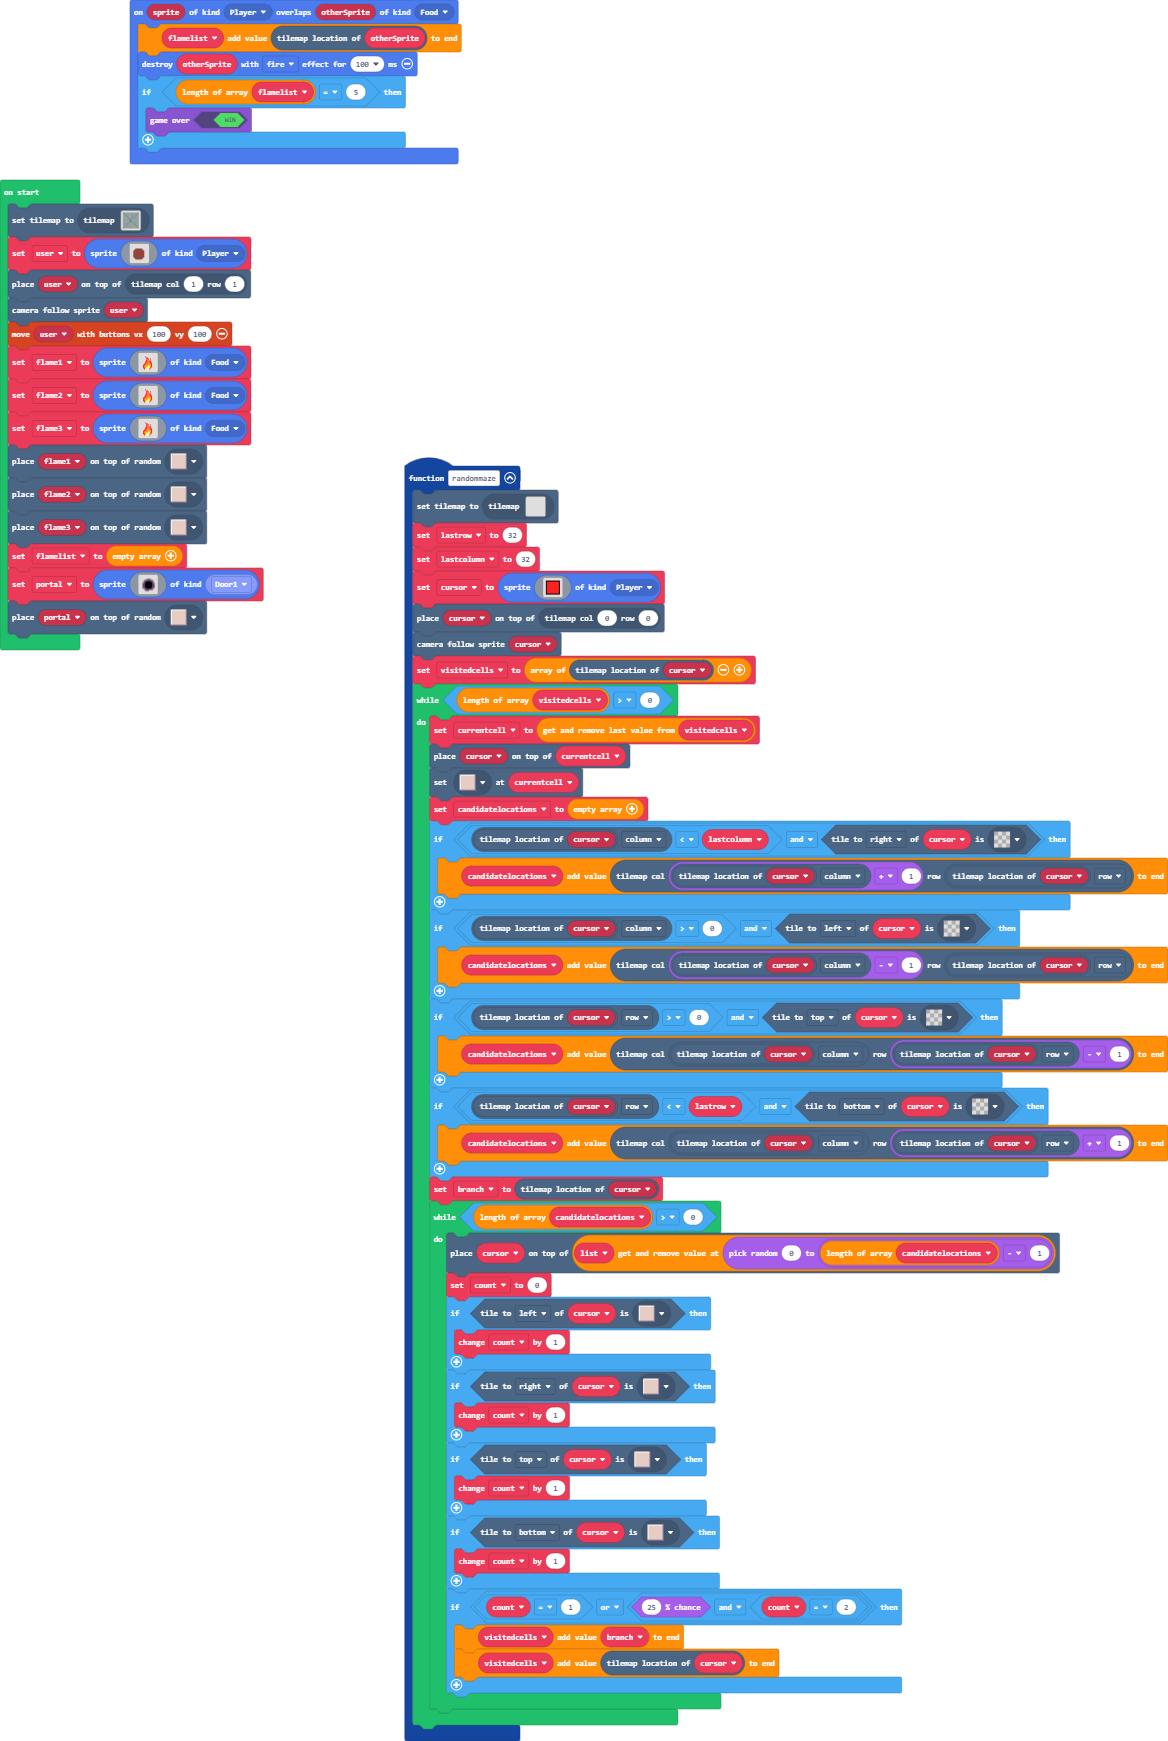
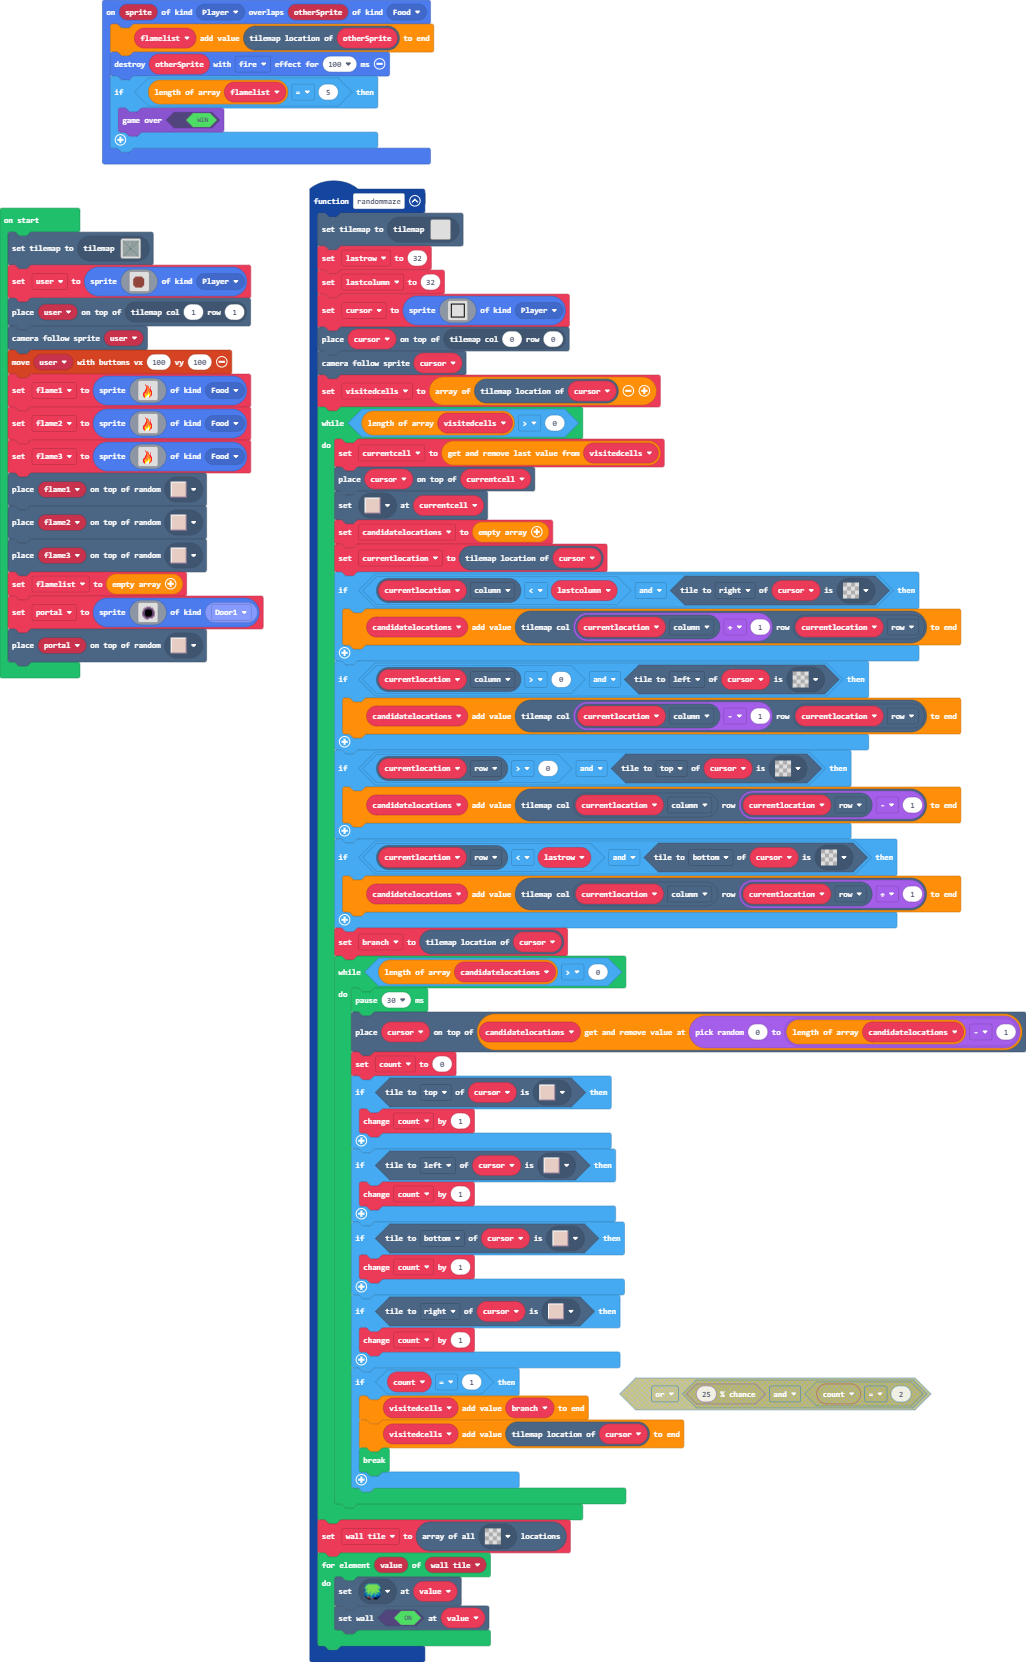
Update main.blocks, main.ts

diff --git a/main.ts b/main.ts
@@ -5,18 +5,18 @@ function randommaze () {
     cursor = sprites.create(img`
         . . . . . . . . . . . . . . . . 
         . f f f f f f f f f f f f f f . 
-        . f 2 2 2 2 2 2 2 2 2 2 2 2 f . 
-        . f 2 2 2 2 2 2 2 2 2 2 2 2 f . 
-        . f 2 2 2 2 2 2 2 2 2 2 2 2 f . 
-        . f 2 2 2 2 2 2 2 2 2 2 2 2 f . 
-        . f 2 2 2 2 2 2 2 2 2 2 2 2 f . 
-        . f 2 2 2 2 2 2 2 2 2 2 2 2 f . 
-        . f 2 2 2 2 2 2 2 2 2 2 2 2 f . 
-        . f 2 2 2 2 2 2 2 2 2 2 2 2 f . 
-        . f 2 2 2 2 2 2 2 2 2 2 2 2 f . 
-        . f 2 2 2 2 2 2 2 2 2 2 2 2 f . 
-        . f 2 2 2 2 2 2 2 2 2 2 2 2 f . 
-        . f 2 2 2 2 2 2 2 2 2 2 2 2 f . 
+        . f . . . . . . . . . . . . f . 
+        . f . . . . . . . . . . . . f . 
+        . f . . . . . . . . . . . . f . 
+        . f . . . . . . . . . . . . f . 
+        . f . . . . . . . . . . . . f . 
+        . f . . . . . . . . . . . . f . 
+        . f . . . . . . . . . . . . f . 
+        . f . . . . . . . . . . . . f . 
+        . f . . . . . . . . . . . . f . 
+        . f . . . . . . . . . . . . f . 
+        . f . . . . . . . . . . . . f . 
+        . f . . . . . . . . . . . . f . 
         . f f f f f f f f f f f f f f . 
         . . . . . . . . . . . . . . . . 
         `, SpriteKind.Player)
@@ -28,40 +28,47 @@ function randommaze () {
         tiles.placeOnTile(cursor, currentcell)
         tiles.setTileAt(currentcell, sprites.dungeon.floorLight2)
         candidatelocations = []
-        if (cursor.tilemapLocation().column < lastcolumn && cursor.tileKindAt(TileDirection.Right, assets.tile`transparency16`)) {
-            candidatelocations.push(tiles.getTileLocation(cursor.tilemapLocation().column + 1, cursor.tilemapLocation().row))
+        currentlocation = cursor.tilemapLocation()
+        if (currentlocation.column < lastcolumn && cursor.tileKindAt(TileDirection.Right, assets.tile`transparency16`)) {
+            candidatelocations.push(tiles.getTileLocation(currentlocation.column + 1, currentlocation.row))
         }
-        if (cursor.tilemapLocation().column > 0 && cursor.tileKindAt(TileDirection.Left, assets.tile`transparency16`)) {
-            candidatelocations.push(tiles.getTileLocation(cursor.tilemapLocation().column - 1, cursor.tilemapLocation().row))
+        if (currentlocation.column > 0 && cursor.tileKindAt(TileDirection.Left, assets.tile`transparency16`)) {
+            candidatelocations.push(tiles.getTileLocation(currentlocation.column - 1, currentlocation.row))
         }
-        if (cursor.tilemapLocation().row > 0 && cursor.tileKindAt(TileDirection.Top, assets.tile`transparency16`)) {
-            candidatelocations.push(tiles.getTileLocation(cursor.tilemapLocation().column, cursor.tilemapLocation().row - 1))
+        if (currentlocation.row > 0 && cursor.tileKindAt(TileDirection.Top, assets.tile`transparency16`)) {
+            candidatelocations.push(tiles.getTileLocation(currentlocation.column, currentlocation.row - 1))
         }
-        if (cursor.tilemapLocation().row < lastrow && cursor.tileKindAt(TileDirection.Bottom, assets.tile`transparency16`)) {
-            candidatelocations.push(tiles.getTileLocation(cursor.tilemapLocation().column, cursor.tilemapLocation().row + 1))
+        if (currentlocation.row < lastrow && cursor.tileKindAt(TileDirection.Bottom, assets.tile`transparency16`)) {
+            candidatelocations.push(tiles.getTileLocation(currentlocation.column, currentlocation.row + 1))
         }
         branch = cursor.tilemapLocation()
         while (candidatelocations.length > 0) {
-            let list: tiles.Location[] = []
-            tiles.placeOnTile(cursor, list.removeAt(randint(0, candidatelocations.length - 1)))
+            pause(30)
+            tiles.placeOnTile(cursor, candidatelocations.removeAt(randint(0, candidatelocations.length - 1)))
             count = 0
-            if (cursor.tileKindAt(TileDirection.Left, sprites.dungeon.floorLight2)) {
-                count += 1
-            }
-            if (cursor.tileKindAt(TileDirection.Right, sprites.dungeon.floorLight2)) {
-                count += 1
-            }
             if (cursor.tileKindAt(TileDirection.Top, sprites.dungeon.floorLight2)) {
+                count += 1
+            }
+            if (cursor.tileKindAt(TileDirection.Left, sprites.dungeon.floorLight2)) {
                 count += 1
             }
             if (cursor.tileKindAt(TileDirection.Bottom, sprites.dungeon.floorLight2)) {
                 count += 1
             }
-            if (count == 1 || Math.percentChance(25) && count == 2) {
+            if (cursor.tileKindAt(TileDirection.Right, sprites.dungeon.floorLight2)) {
+                count += 1
+            }
+            if (count == 1) {
                 visitedcells.push(branch)
                 visitedcells.push(cursor.tilemapLocation())
+                break;
             }
         }
+    }
+    wall_tile = tiles.getTilesByType(assets.tile`transparency16`)
+    for (let value of wall_tile) {
+        tiles.setTileAt(value, sprites.builtin.forestTiles0)
+        tiles.setWallAt(value, true)
     }
 }
 sprites.onOverlap(SpriteKind.Player, SpriteKind.Food, function (sprite, otherSprite) {
@@ -71,8 +78,10 @@ sprites.onOverlap(SpriteKind.Player, SpriteKind.Food, function (sprite, otherSpr
         game.gameOver(true)
     }
 })
+let wall_tile: tiles.Location[] = []
 let count = 0
 let branch: tiles.Location = null
+let currentlocation: tiles.Location = null
 let candidatelocations: tiles.Location[] = []
 let currentcell: tiles.Location = null
 let visitedcells: tiles.Location[] = []
